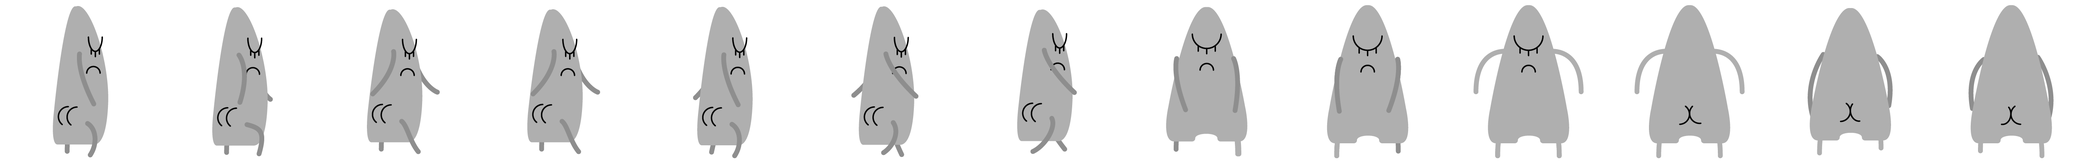
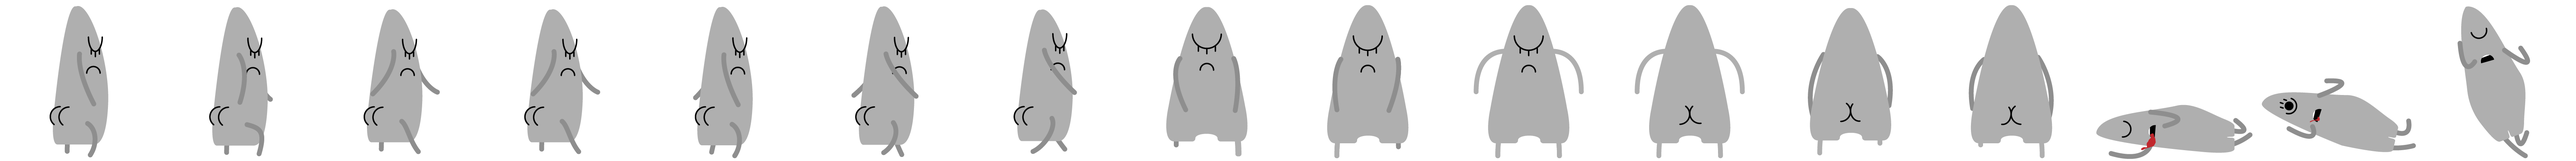
Anim morirse

diff --git a/src/person.h b/src/person.h
@@ -70,7 +70,10 @@ struct Person : BoxEntity, SelfRegister<Person>
 	}
 
 	void UpdatePlayer(float dt) {
-		if (!alive) { return; }
+		if (!alive) { 
+			anim.Update(dt);
+			return; 
+		}
 		vec dir = vec::Zero;
 		if (Input::IsPressed(player_id, GameKeys::UP)) {
 			dir.y = -1;
@@ -122,7 +125,7 @@ struct Person : BoxEntity, SelfRegister<Person>
 
 	void Kill() {
 		alive = false;
-
+		anim.Ensure(AnimLib::NPC_1_DIE, false);
 		for (auto p : Person::GetAll()) {
 			if (p->pos.Distance(pos) < 600) {
 				p->Panic(p->pos - pos);
@@ -139,7 +142,10 @@ struct Person : BoxEntity, SelfRegister<Person>
 
 	void UpdateNpc(float dt)
 	{
-		if (!alive) { return; }
+		if (!alive) {
+			anim.Update(dt);
+			return;
+		}
 
 		vec dir;
 		if (in_panic) {

diff --git a/src/anim_lib.h b/src/anim_lib.h
@@ -32,6 +32,12 @@ namespace AnimLib {
 		{ {12 * frameSize, 0 * frameSize, frameSize, frameSize}, 0.5f },
 	};
 
+	constexpr const AnimationFrame NPC_1_DIE[] = {
+		{ {15 * frameSize, 0 * frameSize, frameSize, frameSize}, frameDuration },
+		{ {14 * frameSize, 0 * frameSize, frameSize, frameSize}, frameDuration },
+		{ {13 * frameSize, 0 * frameSize, frameSize, frameSize}, frameDuration },
+	};
+
 	constexpr const AnimationFrame ALIEN_1[] = {
 		{ {0,0,71,55}, 0.3f },
 		{ {71,0,71,55}, 0.3f },
